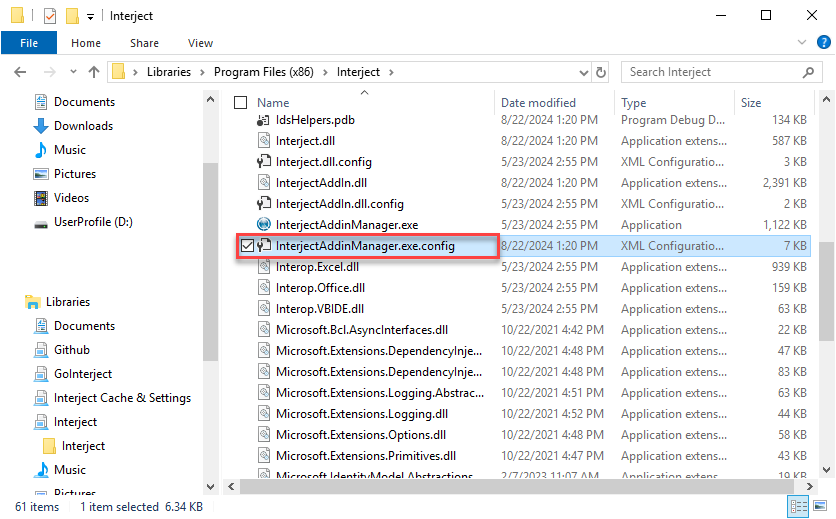
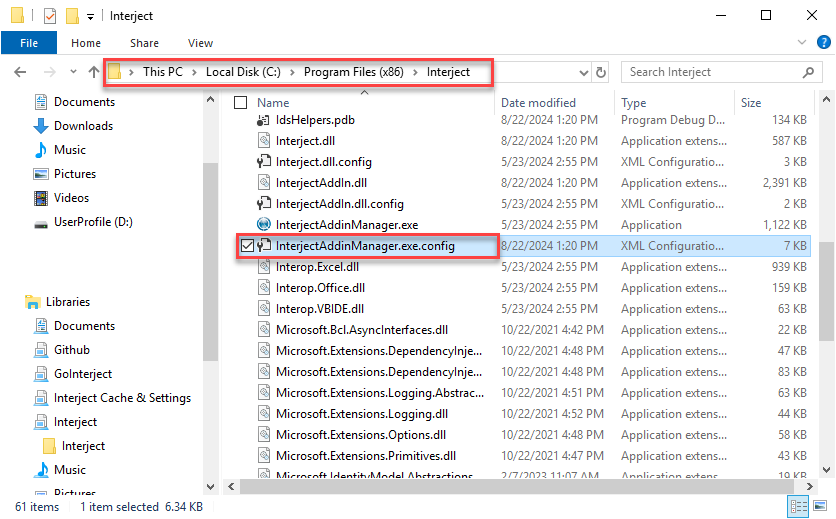
updated TLS page

Changed region(s): [[0.0933, 0.0925, 0.5909, 0.185]]

diff --git a/wAbout/TLS.md b/wAbout/TLS.md
@@ -3,8 +3,8 @@ title: Interject TLS for HTTPS
 filename: "TLS.md"
 layout: custom
 keywords: [Security, Privacy, Data Governance, Transport, Config, IDSSettings, Install Code]
-headings: ["Enabling TLS 1.2 for Earlier Interject Version", "Set TLS 1.2 Setting via Install Code", "Set TLS Settings via IDSSettings File"]
-links: []
+headings: ["Overview", "TLS 1.0/1.1 End of Support", "Enabling TLS 1.2 for Earlier Interject Version", "Set TLS 1.2 Setting via Install Code", "Set TLS Settings via IDSSettings File"]
+links: ["https://learn.microsoft.com/en-us/lifecycle/announcements/tls-support-ending-10-31-2024", "https://portal.gointerject.com/download-interject.html", "#enabling-tls-12-for-earlier-interject-version", "#set-tls-12-setting-via-install-code"]
 image_dir: "TLS"
 images: []
 description: Interject uses the Transport Layer Security (TLS). TLS is a cryptographic protocol designed to provide secure communication over a computer network. It ensures data privacy and integrity between two communicating applications by encrypting the information exchanged. 
@@ -13,18 +13,40 @@ description: Interject uses the Transport Layer Security (TLS). TLS is a cryptog
 
 ## Overview
 
-Interject uses the Transport Layer Security (TLS). TLS is a cryptographic protocol designed to provide secure communication over a computer network. It ensures data privacy and integrity between two communicating applications by encrypting the information exchanged. 
+Interject uses the Transport Layer Security (TLS). TLS is a cryptographic protocol designed to provide secure communication over a computer network. It ensures data privacy and integrity between two communicating applications by encrypting the information exchanged.
+
+### TLS 1.0/1.1 End of Support
+
+For Interject version 2.3.34 and earlier, the default is TLS 1.1. Support for TLS 1.0 and TLS 1.1 will end by October 31, 2024. For more info, see [here](https://learn.microsoft.com/en-us/lifecycle/announcements/tls-support-ending-10-31-2024){:target="_blank"}{:rel="noopener noreferrer"}. Your options are:
+
+ - [Upgrade Interject](https://portal.gointerject.com/download-interject.html)
+ - Update to TLS 1.2 by [enabling TLS 1.2](#enabling-tls-12-for-earlier-interject-version) and [changing the settings](#set-tls-12-setting-via-install-code)
 
 ### Enabling TLS 1.2 for Earlier Interject Version
 
-For Interject version 2.3.34 and earlier, the default is TLS 1.1. The TLS setting can be changed by first enabling earlier versions to use TLS 1.2.
+The TLS setting can be changed by first enabling earlier versions to use TLS 1.2. This is a config file located in the Interject installation folder.
 
-**Step 1:** Open the installation folder for Interject and open the **AddinManager.exe.config** with a text editor.
+**Step 1:** To determine where Interject is installed, open Excel and click on the File tab:
+
+![](/images/TLS/ExcelFileTab.png)
+<br>
+
+Click on **Options**:
+
+![](/images/TLS/FileTabOptions.png)
+<br>
+
+The installation location is on the **Add-Ins** tab:
+
+![](/images/TLS/InterjectInstallationLocation.png)
+<br>
+
+**Step 2:** Open the installation folder for Interject in a file browser and open the **AddinManager.exe.config** with a text editor.
 
 ![](/images/TLS/InstallFolder.png)
 <br>
 
-**Step 2:** Add the following line and save the file:
+**Step 3:** Add the following line and save the file:
 
 ```
 <!-- Enable TLS 1.2 and above -->
@@ -32,10 +54,11 @@ For Interject version 2.3.34 and earlier, the default is TLS 1.1. The TLS settin
     <AppContextSwitchOverrides value="Switch.System.Net.DontEnableSystemDefaultTlsVersions=false"/>
   </runtime>
 ```
+<br>
 
 ![](/images/TLS/AddinManagerConfig.png)
 
-**Step 3:** Restart the Addin Manager. Right click the Interject Addin Manger icon in the system tray and select **Exit**.
+**Step 4:** Restart the Addin Manager. Right click the Interject Addin Manger icon in the system tray and select **Exit**.
 
 ![](/images/TLS/ExitAddinManager.png)
 <br>
@@ -63,7 +86,7 @@ Restart Excel to ensure TLS 1.2 setting is active.
 
 ### Set TLS Settings via IDSSettings File
 
-You can manual set the TLS setting via the IDSSetting.xml.
+You can manual set the TLS setting via the **IDSSetting.xml**.
 
 **Step 1:** Open the Diagnostics, select **Open User Folders** and click **Execute Selected Action**.
 
@@ -81,4 +104,3 @@ You can change the TLS setting in the **TlsOverride** tag.
 <br>
 
 Restart Excel to ensure your settings are active.
-
